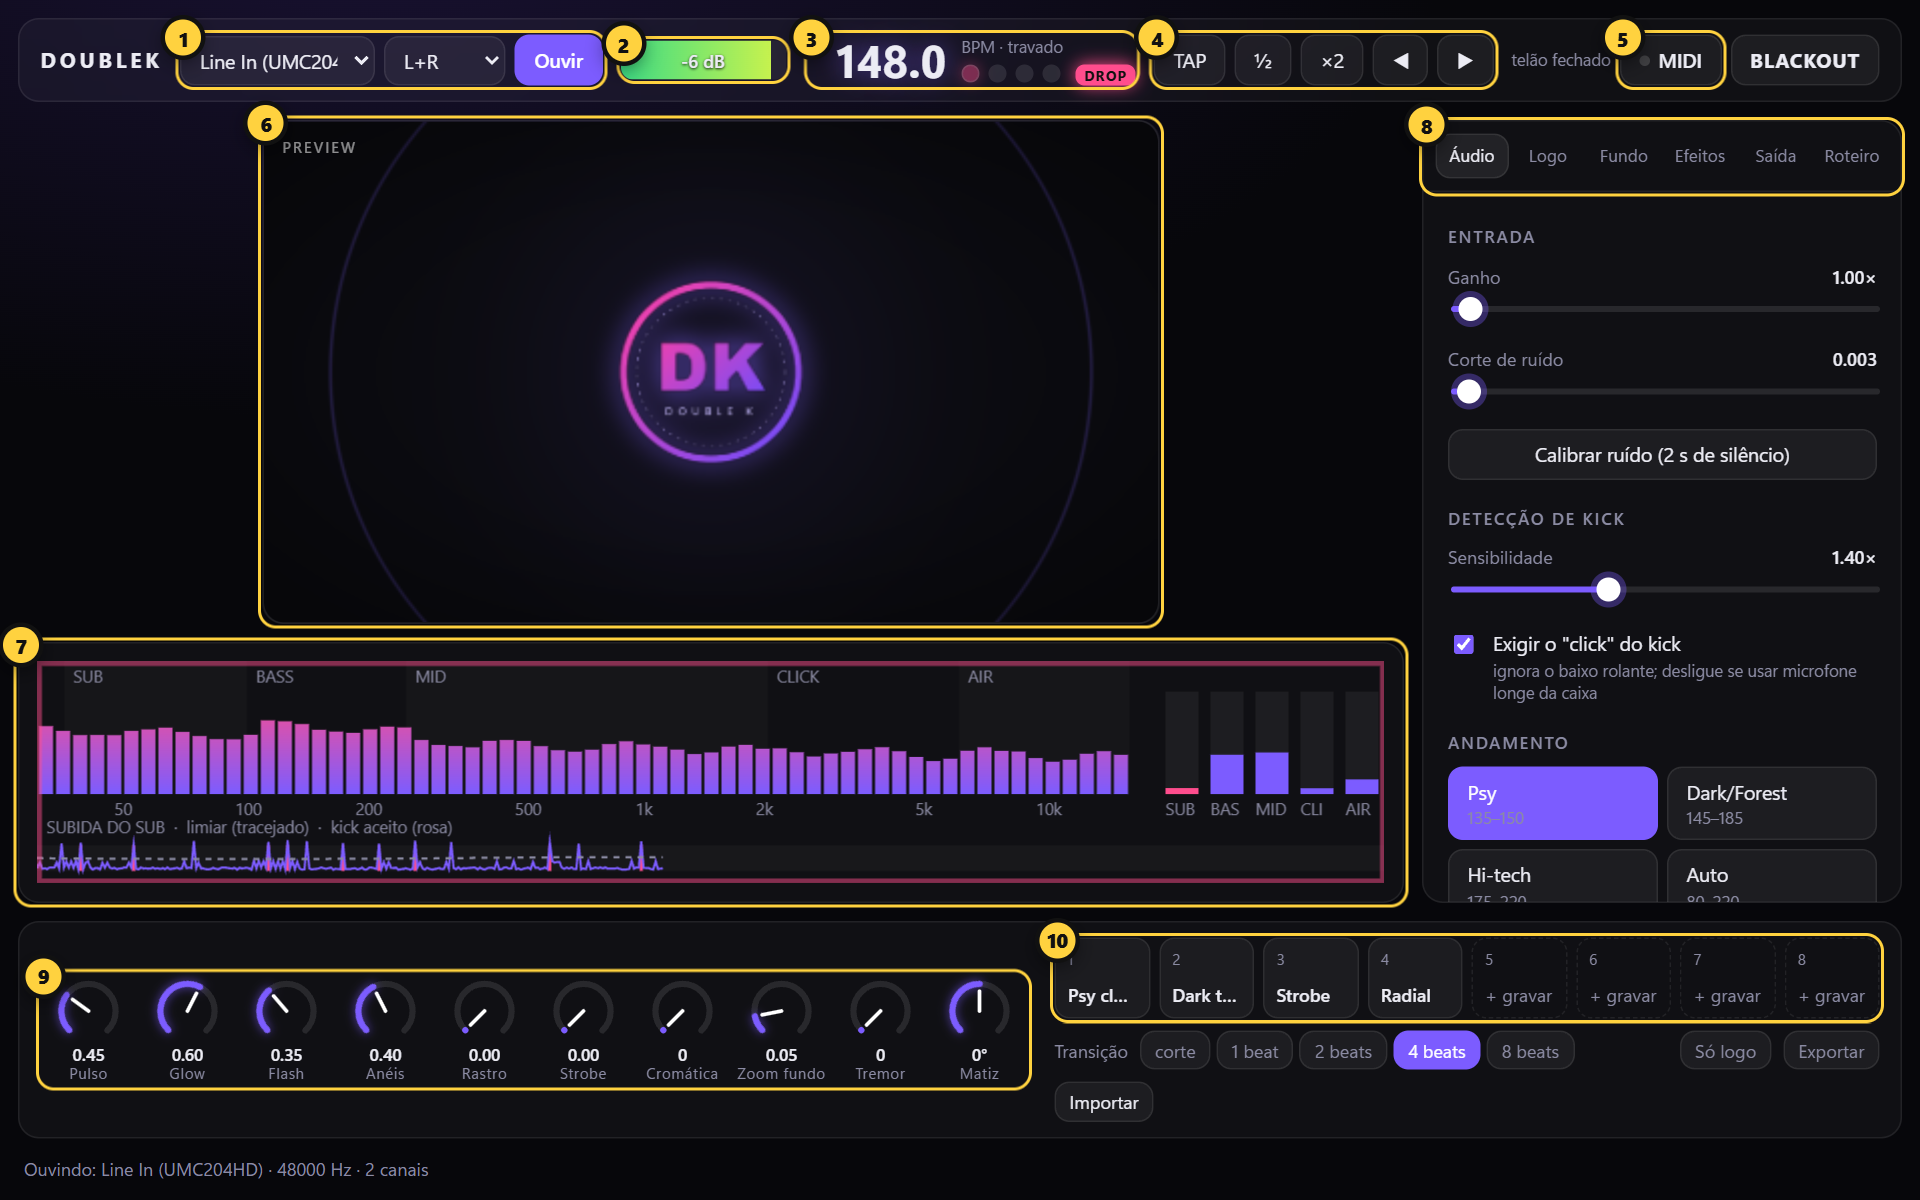
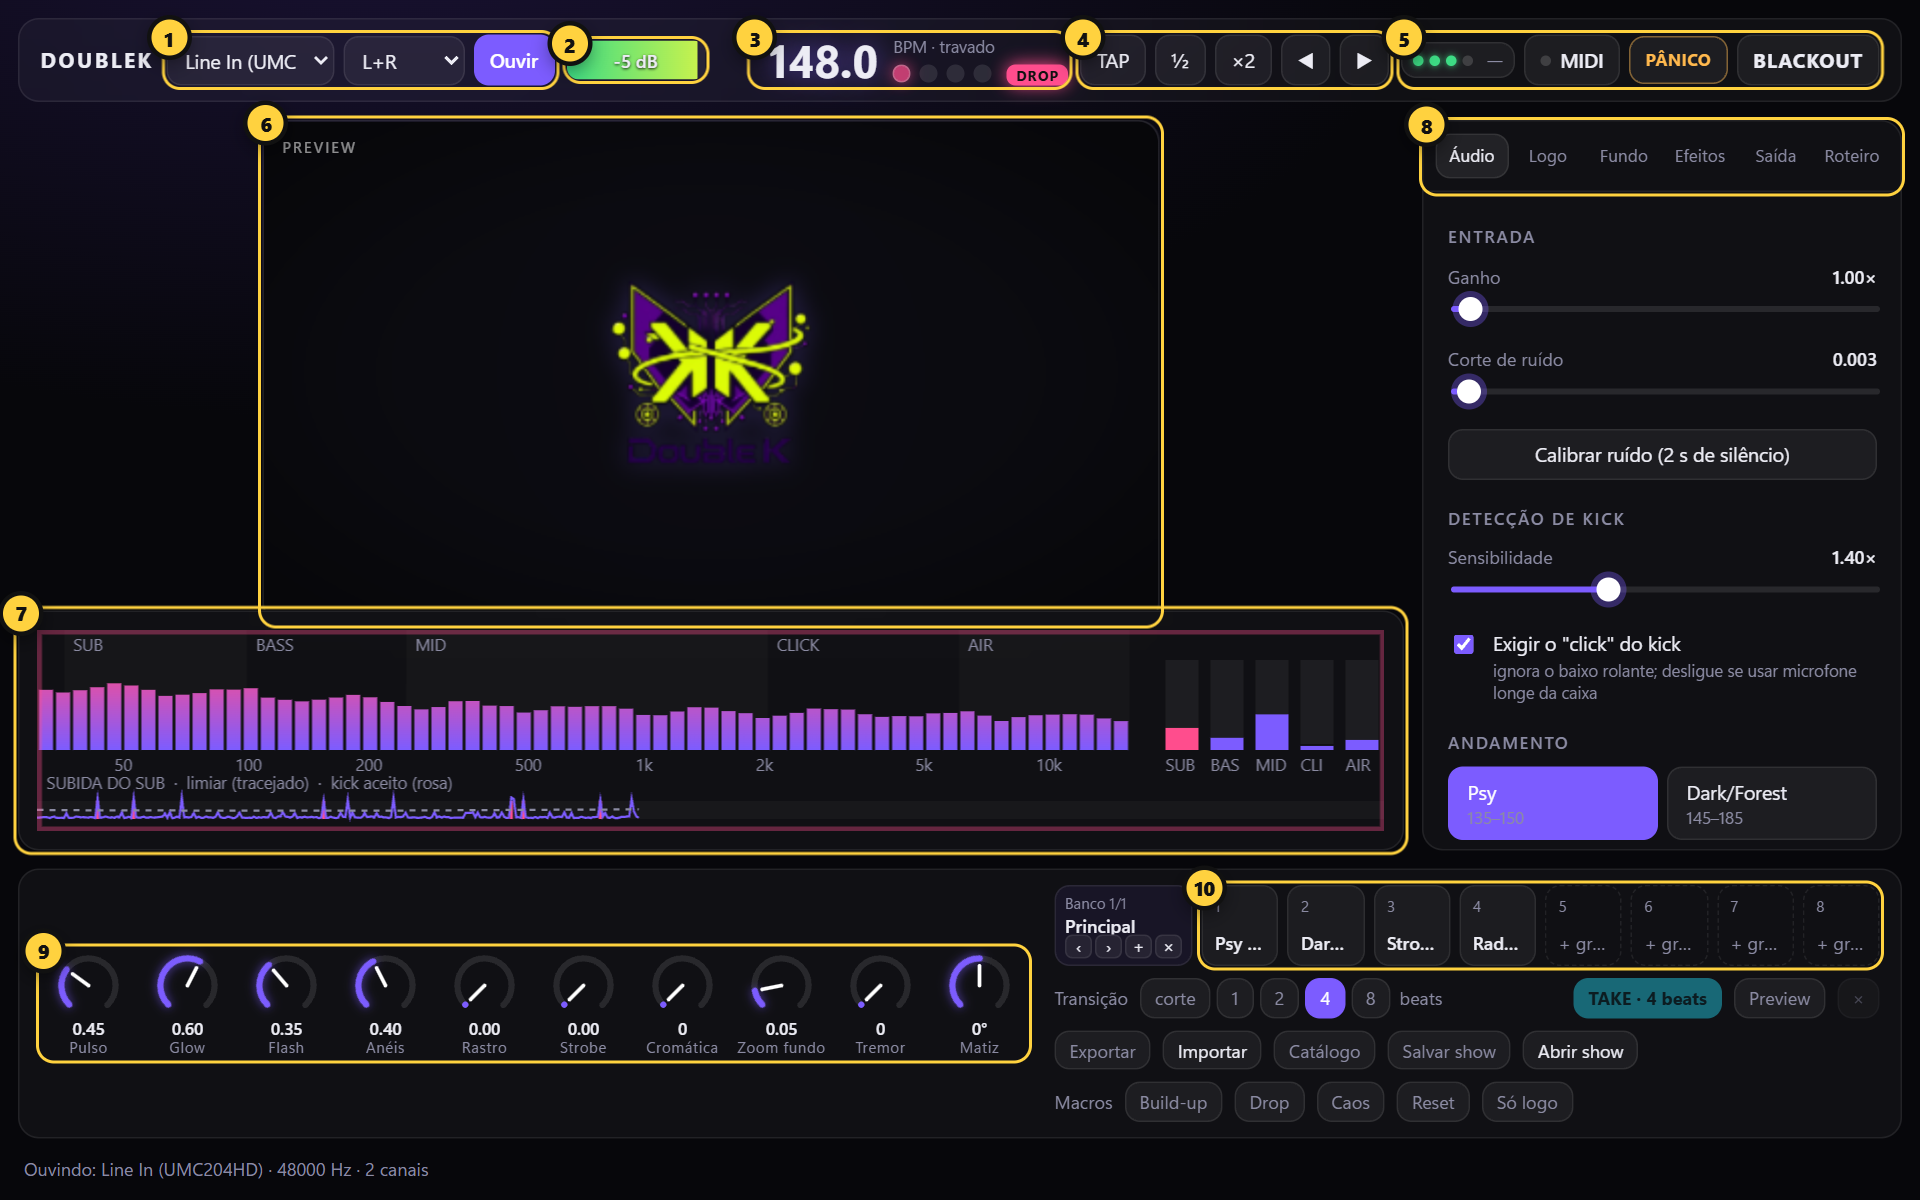
Docs: capturas refeitas com a UI da 0.3.4 (saúde, PÂNICO, bancos, TAKE, macros, Show Pack); mapa da tela atualizado

diff --git a/docs/DOUBLEK_VISUALS_PLANO_AGENTICO_ROADMAP.md b/docs/DOUBLEK_VISUALS_PLANO_AGENTICO_ROADMAP.md
@@ -820,7 +820,7 @@ Atualizar esta seção **ao final de cada tarefa**. Não marcar checkbox sem tes
 | 2026-10-30 | DK-024 | DONE (software) | `feat/dk-024-psy-fechamento` @ `9c5dcea` (sessão 29) | `budget.check.ts` + checks 11/11, typecheck 0, build (coordenador); smokes com teto 1/40 ms e `psySafe` diff 0 | coordenador liga `onBudget`/`costs()` no telão; sessão 29 → **DK-051/052** (compositor de camadas) |
 | 2026-10-30 | DK-024b | DONE | `feat/dk-024b-wire` (coordenador) | `output/main.ts`: `onBudget` → evento `psy-budget`, `costs()` → `psy-costs` 1×/s; typecheck 0, build | onda 3 |
 | 2026-10-30 | DK-043 | DONE (software) | `feat/dk-043-preview` @ `550dcd5` (sessão 22) | `preview.check.ts` + checks 12/12, typecheck 0, build (coordenador); mock 19/19 | **DK-143** (efeitos/vídeo/rampas do roteiro pelo dispatcher, `cue.bank`) na mesma sessão; DK-044 vira verificação de estresse no mock |
-| 2026-10-30 | ONDA 3 → main | MERGEADA | `main` @ `ef1a66a` (v0.3.4, ff de `integ/onda-3`), push feito | DK-024(+024b), DK-043, docs; check 14/14, typecheck 0, build, `cargo test` 15/15; CI e MSI 0.3.4 em andamento | Onda 4 com DK-051/052 (29), DK-143 (22), DK-009 P7/P6 (d7) |
+| 2026-10-30 | ONDA 3 → main | MERGEADA | `main` @ `ef1a66a` (v0.3.4, ff de `integ/onda-3`), push feito | DK-024(+024b), DK-043, docs; check 14/14, typecheck 0, build, `cargo test` 15/15; **CI verde** (run 41138897349); **MSI 0.3.4 assinado** em `wt-integ/src-tauri/target/release/bundle/msi/` (instalação pendente do mantenedor) | Onda 4 com DK-051/052 (29), DK-143 (22), DK-009 P7/P6 (d7) |
 | 2026-10-30 | DK-009 P2+P1 | DONE (software) | `feat/dk-009-deteccao` @ `8f748e6` (sessão d7) | `cargo test --release` 15/15 (coordenador); bench principal sem caso fora da meta; estresse 10 sementes; P6 como patch; **P7** achado (grade no contratempo) | **P7** → P6 (patch com guarda do estresse chimbal) → resíduos §4.8, mesma sessão; P5 fixtures reais dependem de DEC-01 |
 
 ### 8.4. Bloqueios e decisões pendentes

diff --git a/docs/TUTORIAL.md b/docs/TUTORIAL.md
@@ -123,7 +123,7 @@ Funciona no improviso: pode ser o microfone do notebook ou um microfone USB pert
 | 7 | **Analisador** | Mostra o que o app está ouvindo e cada kick que ele aceitou (seção 6). |
 | 8 | **Abas de ajuste** | Áudio, Logo, Fundo, Efeitos, Saída e **Roteiro** (seção 16). |
 | 9 | **Knobs de performance** | Os 10 efeitos mais usados ao vivo, sempre à mão. |
-| 10 | **Cenas** | 8 visuais prontos para trocar com crossfade no beat (seção 15). |
+| 10 | **Cenas e barra de performance** | 8 pads por banco (até 4 bancos), transição, **TAKE**/Preview, **Macros**, Catálogo de presets, Exportar/Importar e **Salvar/Abrir show** (seção 15). |
 
 **As 4 bolinhas de saúde** (passe o mouse para ver o nome de cada uma):
 
